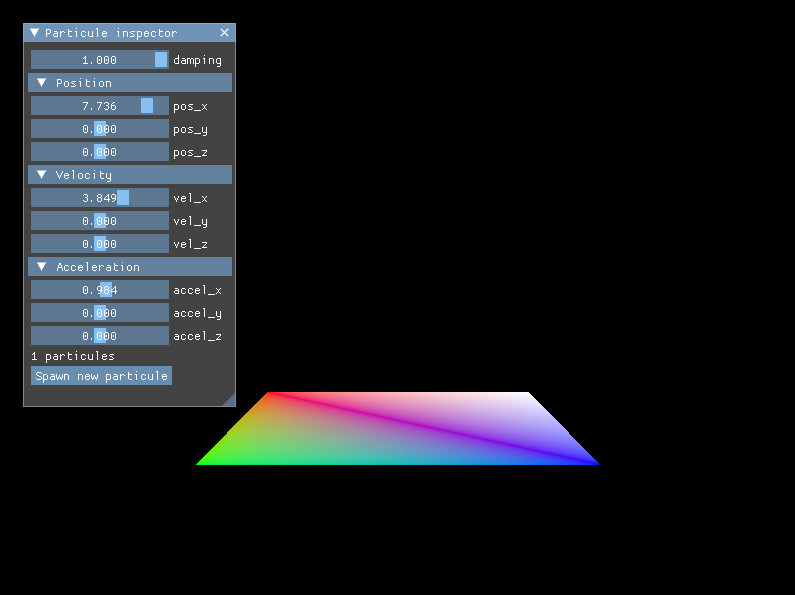
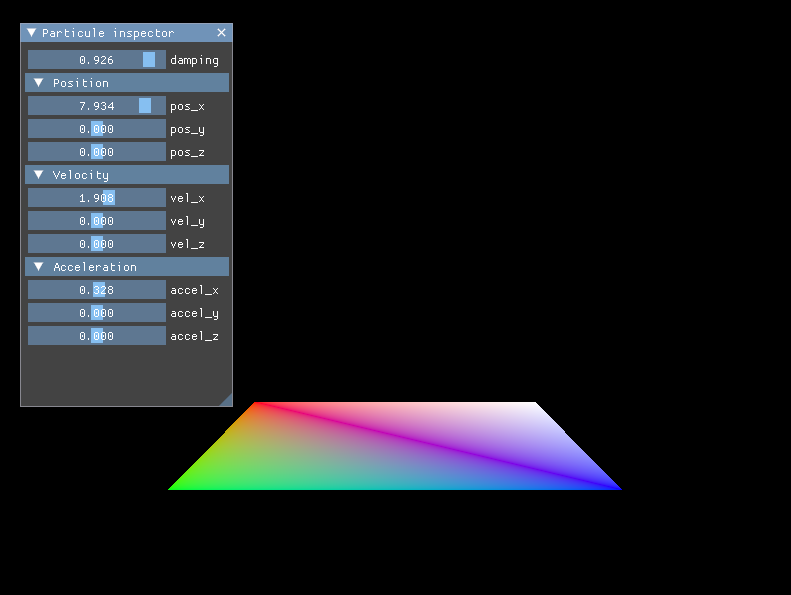
remove unecessary prints and fix readme demo image

diff --git a/src/physics_engine/particule.cpp b/src/physics_engine/particule.cpp
@@ -63,15 +63,7 @@ float Particule::get_damping() const {
 }
 
 void Particule::integrate(float dt) {
-    /* this->position = (this->acceleration) * pow(time_delta, 2) * 0.5 + this->velocity * time_delta */
-    /*     + this->position; */
-    /* this->velocity = (this->acceleration) * time_delta + this->velocity; */
-
     this->position += this->velocity * dt;
     this->velocity += (this->velocity * this->damping - this->velocity) * dt;
     this->velocity += this->acceleration * dt;
-
-    std::cout << (this->velocity * this->damping) << std::endl;
-    std::cout << "pos: " << this->position << std::endl;
-    std::cout << "vel: " << this->velocity << std::endl;
 }

diff --git a/src/vulkan_renderer/ui.cpp b/src/vulkan_renderer/ui.cpp
@@ -54,9 +54,9 @@ void Ui::draw(int n_particules, Particule& particule) {
         particule.set_acceleration(math::Vector3D(accel_x, accel_y, accel_z));
     }
 
-    ImGui::Text("%d particules", n_particules);
-
-    if (ImGui::Button("Spawn new particule")) {}
+    /* ImGui::Text("%d particules", n_particules); */
+    /*  */
+    /* if (ImGui::Button("Spawn new particule")) {} */
 
     ImGui::End();
 

diff --git a/src/vulkan_renderer/vulkan_renderer_init.cpp b/src/vulkan_renderer/vulkan_renderer_init.cpp
@@ -633,7 +633,6 @@ void VulkanRenderer::create_uniform_buffers() {
     uniform_buffers_memory.resize(MAX_FRAMES_IN_FLIGHT);
 
     for (size_t i = 0; i < MAX_FRAMES_IN_FLIGHT; i++) {
-        std::cout << i << std::endl;
         create_buffer(
             buffer_size,
             VK_BUFFER_USAGE_UNIFORM_BUFFER_BIT,

diff --git a/README.md b/README.md
@@ -19,6 +19,7 @@
 ## Utilisation
 `.\bin\physics-engine.exe` en étant dans la racine du projet (important pour que le programme puisse trouver les shaders compilés).  
 L'interface en haut à droite de l'écran permet de controller le damping, la position, la vélocité et l'accélération d'une particule. Il n'est pas encore possible de faire apparaitre d'autres.
-<div align="center">
-![Interface graphique du programme](./assets/demo.png "Interface graphique du programme")
-</div>
+<p align="center">
+    <img src="./assets/demo.png">
+</p>
+
